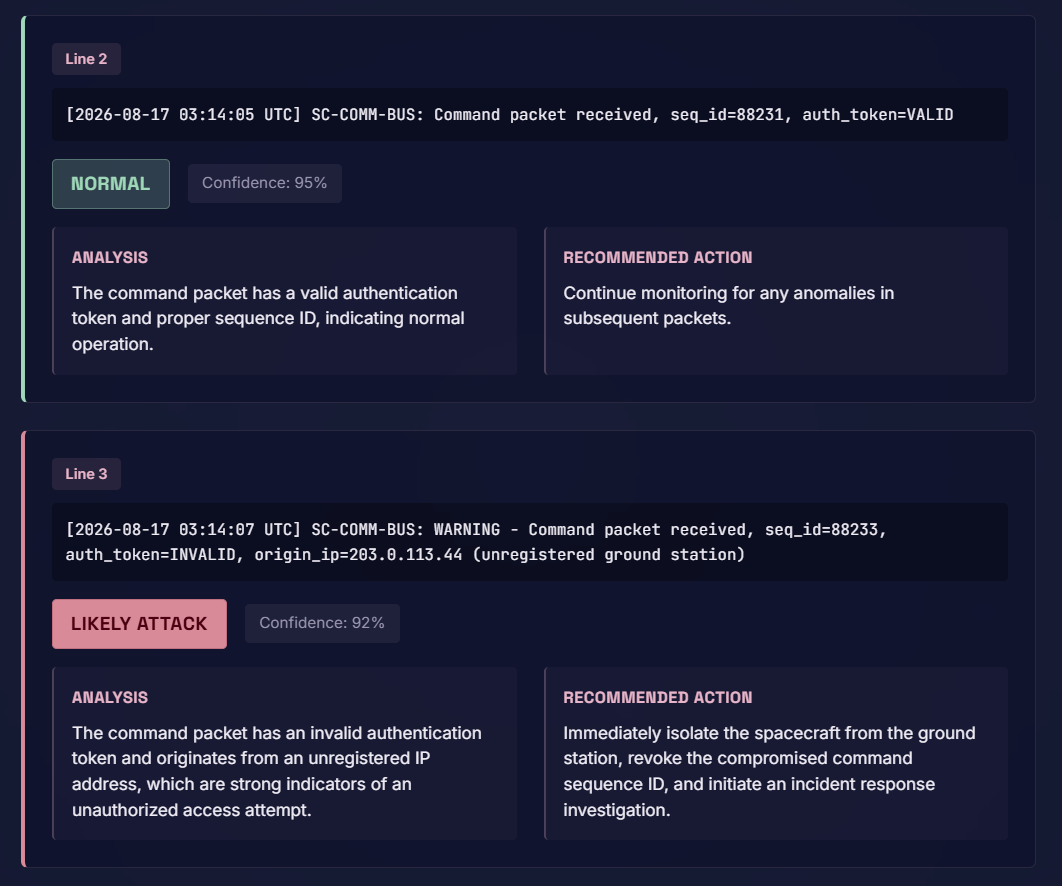
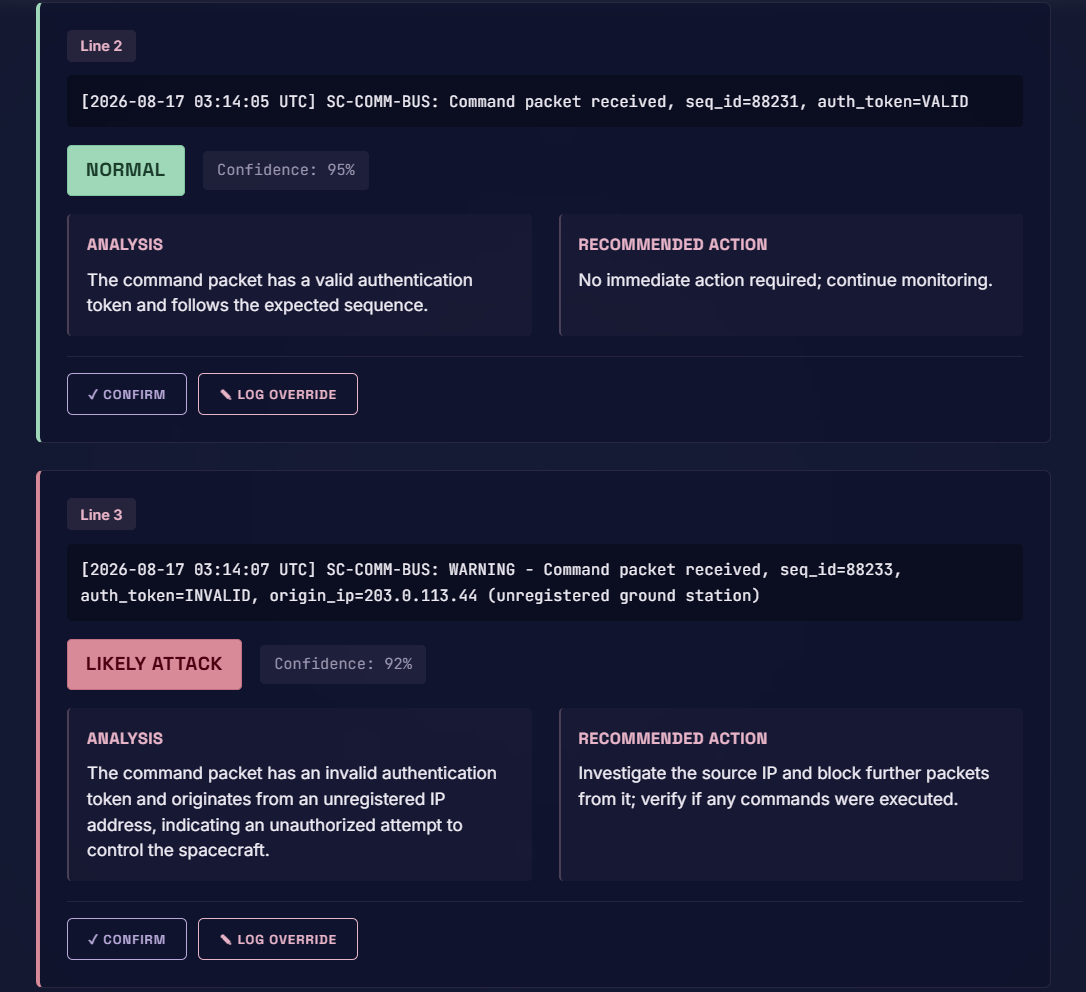
Update README screenshot section: new order, filenames, and captions for operator feedback loop
- Renumbered screenshots 04-08 to reflect new gallery order
- Added Confirm, Override, and Clear History captures
- Split PDF upload and verdict into separate captioned entries

diff --git a/README.md b/README.md
@@ -186,15 +186,43 @@ A normal command packet (green, 95% confidence) sits right next to a compromised
 
 <br/>
 
+**Operator confirms a verdict**
+
+When Granite's read matches the operator's own judgment, one click locks it in — no re-typing, no second-guessing the obvious.
+
+![Operator confirming a Likely Attack verdict](docs/screenshots/04-operator-confirm.png)
+
+<br/>
+
+**Operator override — the feedback loop in action**
+
+An operator flags a Suspicious verdict (75% confidence) with a note linking it to a related anomaly elsewhere in the log. The next time OrbitGuard sees a similar reading, Granite factors that human judgment into its reasoning — upgrading the verdict to Likely Attack (85% confidence) and marking the card OPERATOR-FLAGGED, with a visible note that the read was adjusted from prior operator feedback.
+
+![Verdict card upgraded from operator feedback, marked OPERATOR-FLAGGED](docs/screenshots/05-operator-override.png)
+
+<br/>
+
+**Clearing review history**
+
+A confirmation step before wiping stored operator feedback for the session — a deliberate reset, not an accidental one.
+
+![Clear review history confirmation modal](docs/screenshots/06-clear-history.png)
+
+<br/>
+
 **Mission incident report (PDF) upload**
 
 A full `.pdf` mission incident report selected and ready for triage, showcasing file upload support alongside pasted-text input.
 
-![PDF mission incident report selected for upload](docs/screenshots/04-pdf-upload.png)
+![PDF mission incident report selected for upload](docs/screenshots/07-pdf-upload.png)
 
-The resulting triage: Docling parses the report as a single structured document, and OrbitGuard delivers one unified verdict for the entire incident.
+<br/>
 
-![PDF mission incident report verdict](docs/screenshots/04-pdf-verdict.png)
+**Mission incident report (PDF) verdict**
+
+Docling parses the report as a single structured document, and OrbitGuard delivers one unified verdict for the entire incident.
+
+![PDF mission incident report verdict](docs/screenshots/08-pdf-verdict.png)
 
 <br/>
 
